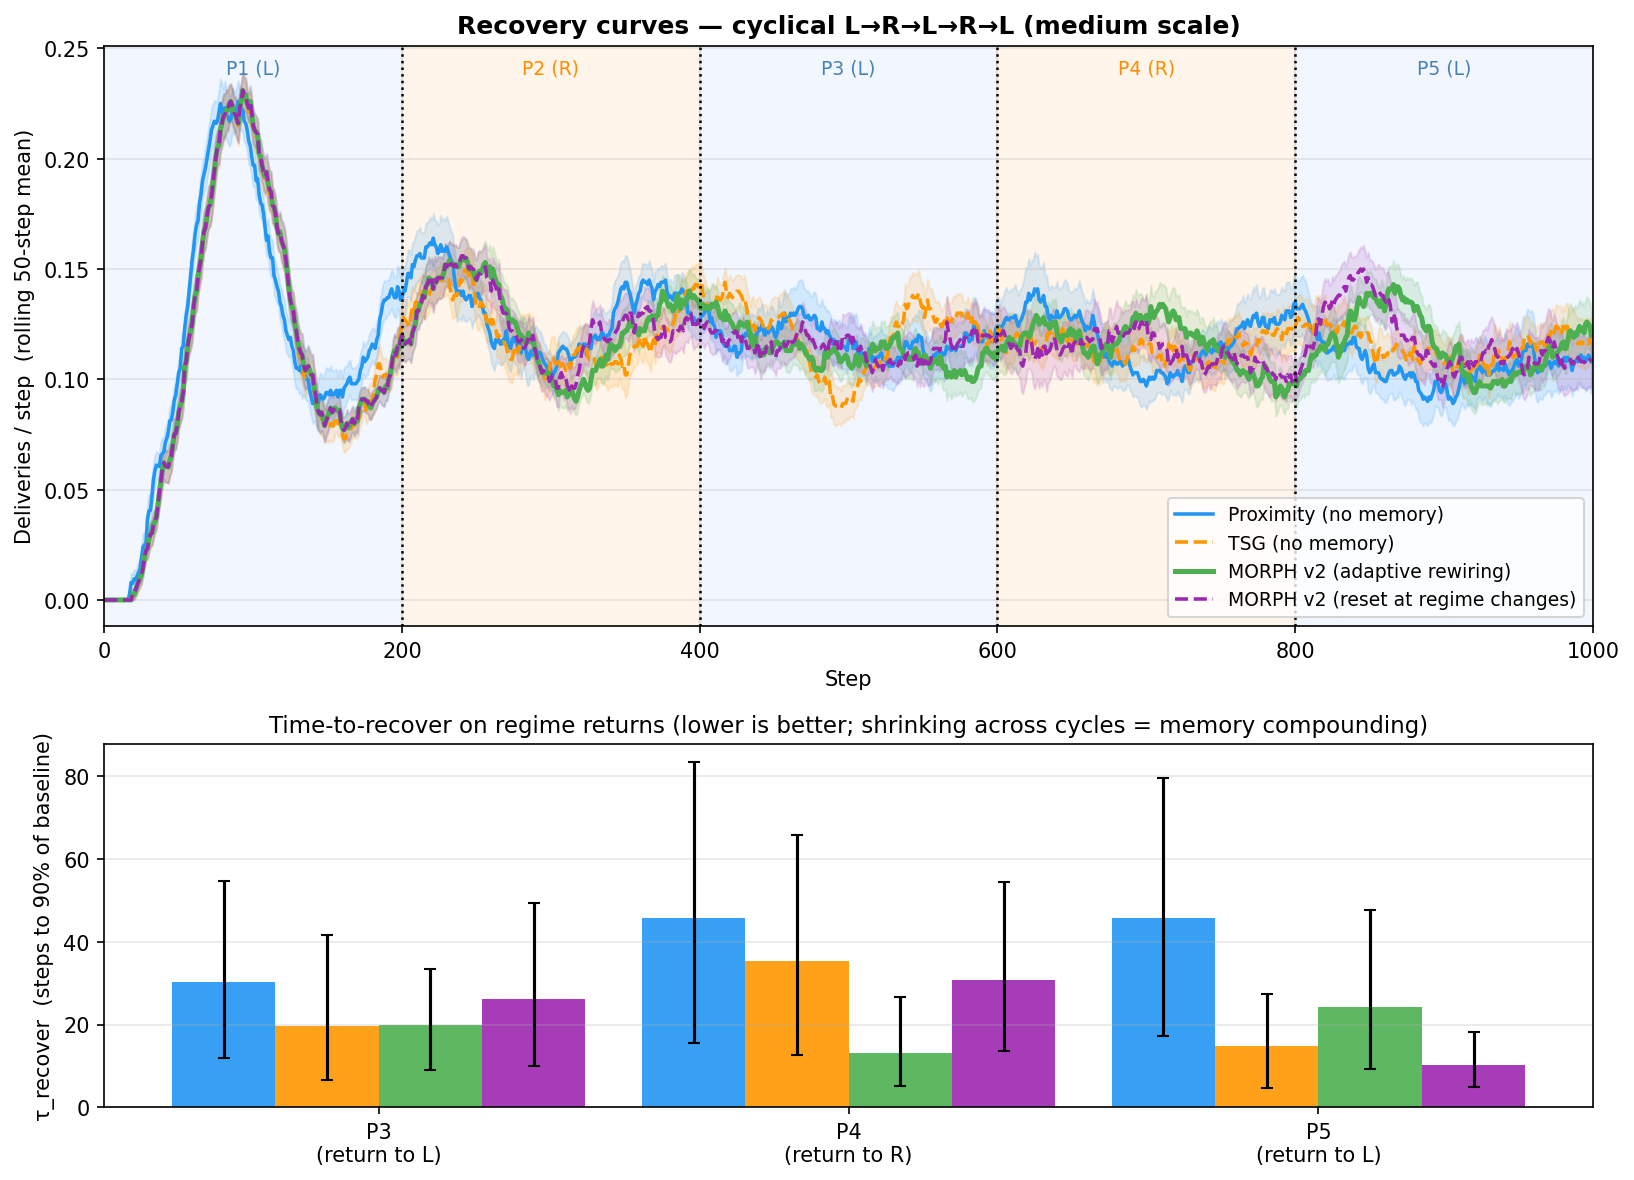
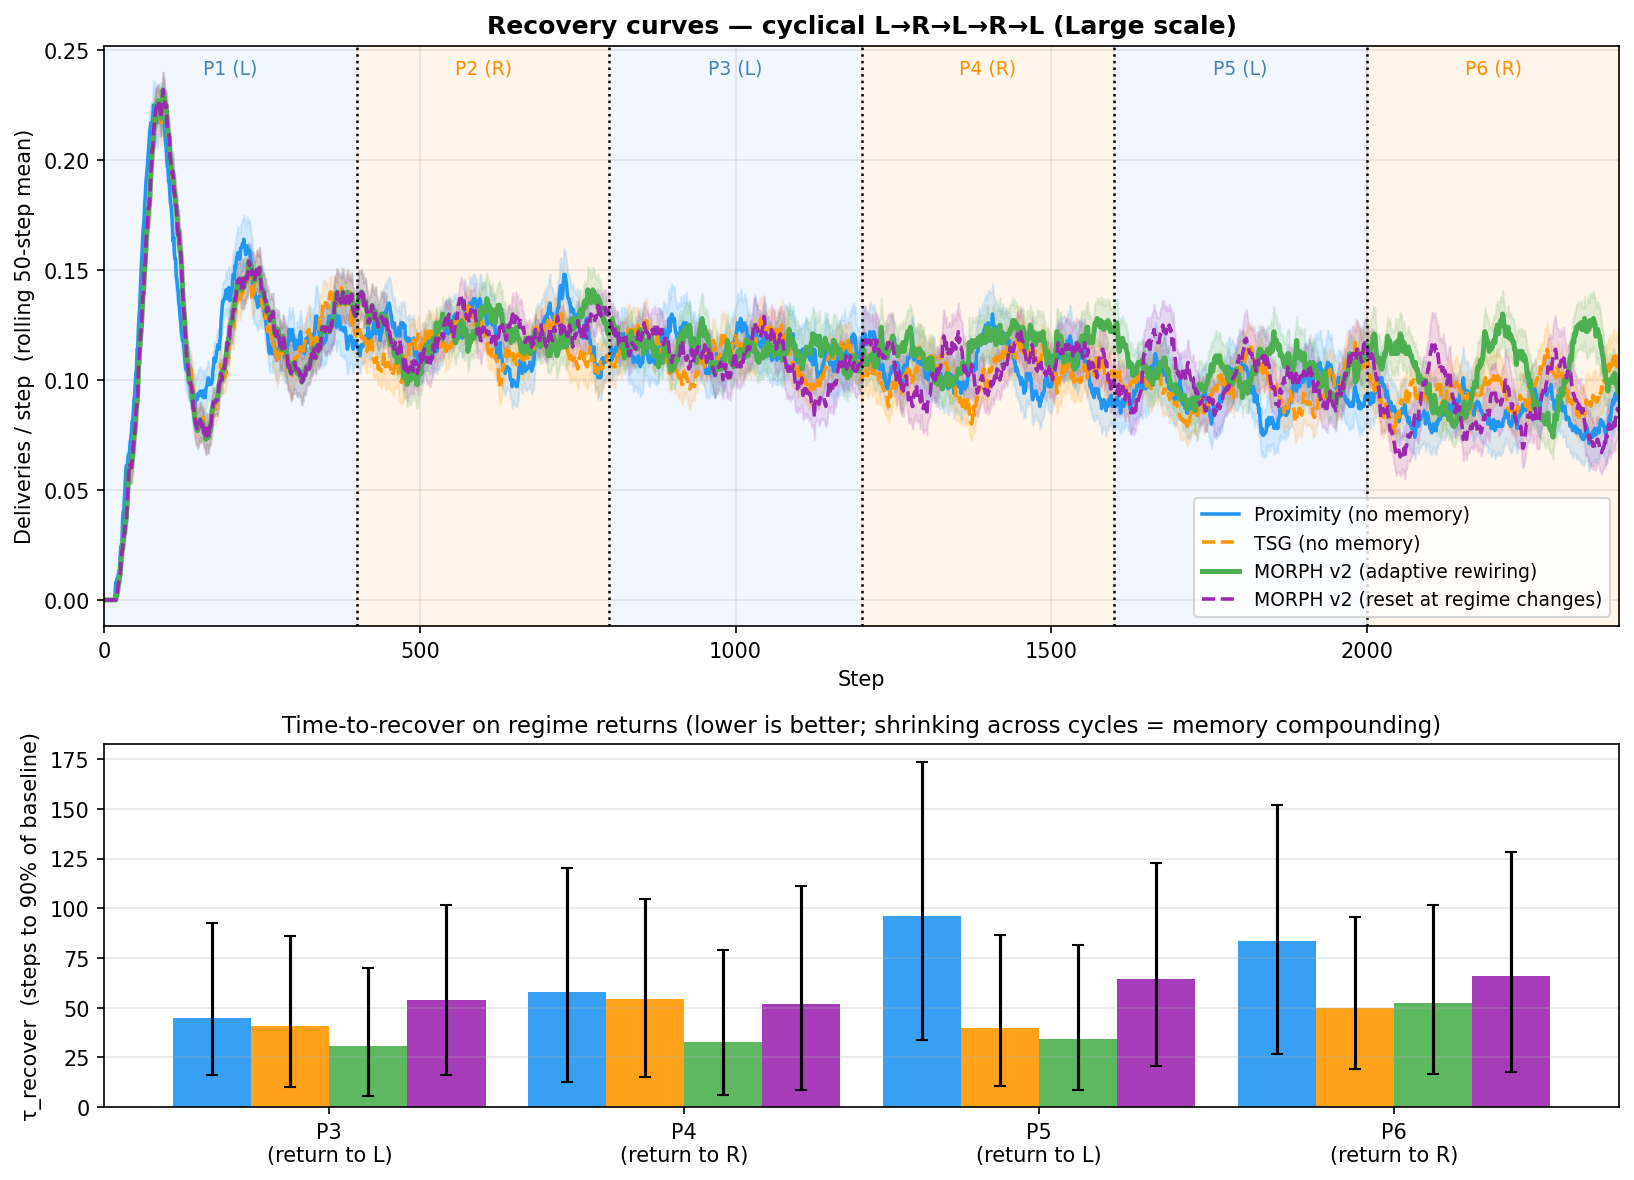
Refactor recovery experiment phases and update statistical tests; add new summary tables and results files

diff --git a/experiments/recovery_experiment.py b/experiments/recovery_experiment.py
@@ -8,11 +8,12 @@ should provide).
 
 Protocol
 --------
-    Phase 1 (1–200):    LEFT
-    Phase 2 (201–400):  RIGHT       ← first shift
-    Phase 3 (401–600):  LEFT        ← first return; tests memory once
-    Phase 4 (601–800):  RIGHT       ← tests pruning/relearn
-    Phase 5 (801–1000): LEFT        ← tests memory compounding (key cell)
+    Phase 1 (1–400):    LEFT
+    Phase 2 (401–800):  RIGHT       ← first shift
+    Phase 3 (801–1200): LEFT        ← first return; tests memory once
+    Phase 4 (1201–1600): RIGHT       ← tests pruning/relearn
+    Phase 5 (1601–2000): LEFT        ← tests memory compounding (key cell)
+    Phase 6 (2001–2400): RIGHT       ← tests pruning/relearn again
 
 Same env, same agents, same seed throughout — only the preferred zone changes.
 
@@ -60,20 +61,32 @@ from experiments.shift_experiment import (
     compute_proximity_matrix,
     ENV_ID, W_FLOOR, PROX_R,
     SEEDS as SHIFT_SEEDS,
-    _V2_KW,
+    # _V2_KW,
     COLORS, LABELS,
 )
 
+_V2_KW = dict(
+    alpha=0.20968647794935405, beta=0.027724243515151663, decay=0.9705207750820916,
+    theta_form_start=0.8733817583708194, theta_form_end=0.38632206314732803, theta_form_anneal=100,
+    theta_prune=0.002460673290093817, target_deg_frac=0.30243297989234874,
+    grace_steps=20, k_slow=2, max_new=5,
+    bcm_tau=0.9222496815870475, bcm_gain=0.5,
+    reward_alpha=0.18368593964285584,
+    neuromod_gain=0.4, neuromod_explore=0.10,
+    neuromod_ema=0.03, expected_delivery_rate=0.14,
+    pred_boost=0.4,
+)
+
 # ── Config ────────────────────────────────────────────────────────────────────
-T_PHASE       = 200
-ZONE_SCHEDULE = ['L', 'R', 'L', 'R', 'L']      # 5 phases
+T_PHASE       = 400
+ZONE_SCHEDULE = ['L', 'R', 'L', 'R', 'L', 'R']  # 6 phases
 T_TOTAL       = T_PHASE * len(ZONE_SCHEDULE)
 WINDOW        = 50
 
 CONDITIONS = ['proximity', 'tsg', 'morph_v2', 'morph_v2_reset']
 
 # Phases (1-indexed in docs, 0-indexed internally) where a regime change occurs.
-SHIFT_PHASE_INDICES = list(range(1, len(ZONE_SCHEDULE)))   # [1,2,3,4]
+SHIFT_PHASE_INDICES = list(range(1, len(ZONE_SCHEDULE)))   # [1,2,3,4,5 for 6 phases]
 
 
 # ── Episode runner ────────────────────────────────────────────────────────────
@@ -460,7 +473,7 @@ def make_figure(results, agg, t_phase=T_PHASE, zone_schedule=ZONE_SCHEDULE,
 
     ax_curve.set_xlabel('Step')
     ax_curve.set_ylabel(f'Deliveries / step  (rolling {window}-step mean)')
-    ax_curve.set_title('Recovery curves — cyclical L→R→L→R→L (medium scale)',
+    ax_curve.set_title('Recovery curves — cyclical L→R→L→R→L (Large scale)',
                        fontsize=12, fontweight='bold')
     ax_curve.legend(fontsize=9, loc='lower right')
     ax_curve.set_xlim(0, T_total)

diff --git a/scripts/statistical_tests.py b/scripts/statistical_tests.py
@@ -46,11 +46,21 @@ print(f"\n{'Scale':<8} {'Comparison':<40} {'mean_A':>7} {'mean_B':>7}"
 print("-" * 80)
 
 for scale, _, _ in SCALES:
-    # MORPH v2 vs all others
-    for other in ['morph_v1', 'proximity', 'tsg',
+    # MORPH v2 vs all others; skip conditions absent from results
+    candidates = ['morph_v1', 'proximity', 'tsg',
                   'morph_v2_no_bcm', 'morph_v2_no_reward', 'morph_v2_no_neuro',
-                  'full', 'no_coord']:
-        r = welch(scale, 'morph_v2', other)
+                  'full', 'no_coord']
+    available = set(all_results.get(scale, {}).keys())
+    for other in candidates:
+        if other not in available:
+            # Skip comparisons for conditions not present in this scale's results
+            continue
+        try:
+            r = welch(scale, 'morph_v2', other)
+        except Exception as e:
+            # Don't fail the whole script for one bad comparison
+            print(f"  Skipping comparison morph_v2 vs {other} on {scale}: {e}")
+            continue
         rows.append(r)
         comp = f"morph_v2 vs {other}"
         sig  = '★' if r['significant'] == 'YES' else ''

diff --git a/scripts/generate_figures.py b/scripts/generate_figures.py
@@ -19,7 +19,7 @@ Usage
 -----
   python scripts/generate_figures.py
 """
-import sys, os, pickle, warnings
+import sys, os, pickle, warnings, shutil
 import numpy as np
 import matplotlib; matplotlib.use('Agg')
 import matplotlib.pyplot as plt
@@ -31,7 +31,14 @@ ROOT    = os.path.dirname(os.path.dirname(os.path.abspath(__file__)))
 sys.path.insert(0, ROOT)
 RES_DIR = os.path.join(ROOT, 'results')
 FIG_DIR = os.path.join(ROOT, 'figures')
+PAPER_DIR = os.path.join(ROOT, '69d60f1a562a0fdddc6a8f3a')
 os.makedirs(FIG_DIR, exist_ok=True)
+
+
+def mirror_to_paper_dir(path):
+    """Keep the LaTeX project copy in sync with regenerated figures."""
+    if os.path.isdir(PAPER_DIR):
+        shutil.copy2(path, os.path.join(PAPER_DIR, os.path.basename(path)))
 
 # ── Load ──────────────────────────────────────────────────────────────────────
 with open(os.path.join(RES_DIR, 'experiment_results.pkl'), 'rb') as f:
@@ -224,6 +231,7 @@ fig.subplots_adjust(left=0.052, right=0.99, bottom=0.075, top=0.9,
                     hspace=0.15, wspace=0.1)
 out1 = os.path.join(FIG_DIR, 'scale_comparison.png')
 fig.savefig(out1, dpi=150, bbox_inches='tight', facecolor=BG)
+mirror_to_paper_dir(out1)
 plt.close()
 print(f"  Saved: {out1}")
 
@@ -261,6 +269,7 @@ ax2.yaxis.grid(True, alpha=0.3, zorder=0)
 fig2.tight_layout()
 out2 = os.path.join(FIG_DIR, 'scale_bars.png')
 fig2.savefig(out2, dpi=150, bbox_inches='tight', facecolor=BG)
+mirror_to_paper_dir(out2)
 plt.close()
 print(f"  Saved: {out2}")
 
@@ -316,6 +325,7 @@ fig3.suptitle('MORPH: Pareto Frontier — Communication Cost vs Throughput\n'
 fig3.tight_layout()
 out3 = os.path.join(FIG_DIR, 'pareto.png')
 fig3.savefig(out3, dpi=150, bbox_inches='tight', facecolor=BG)
+mirror_to_paper_dir(out3)
 plt.close()
 print(f"  Saved: {out3}")
 

diff --git a/experiments/tarware_experiment.py b/experiments/tarware_experiment.py
@@ -50,7 +50,7 @@ SEEDS = [
     4096, 5555, 6789, 8192, 9999,
     12345, 22222, 31415, 42424, 65536
 ]
-T_SCALE = 800
+T_SCALE = 2000
 W_FLOOR = 0.25
 
 SCALES = [